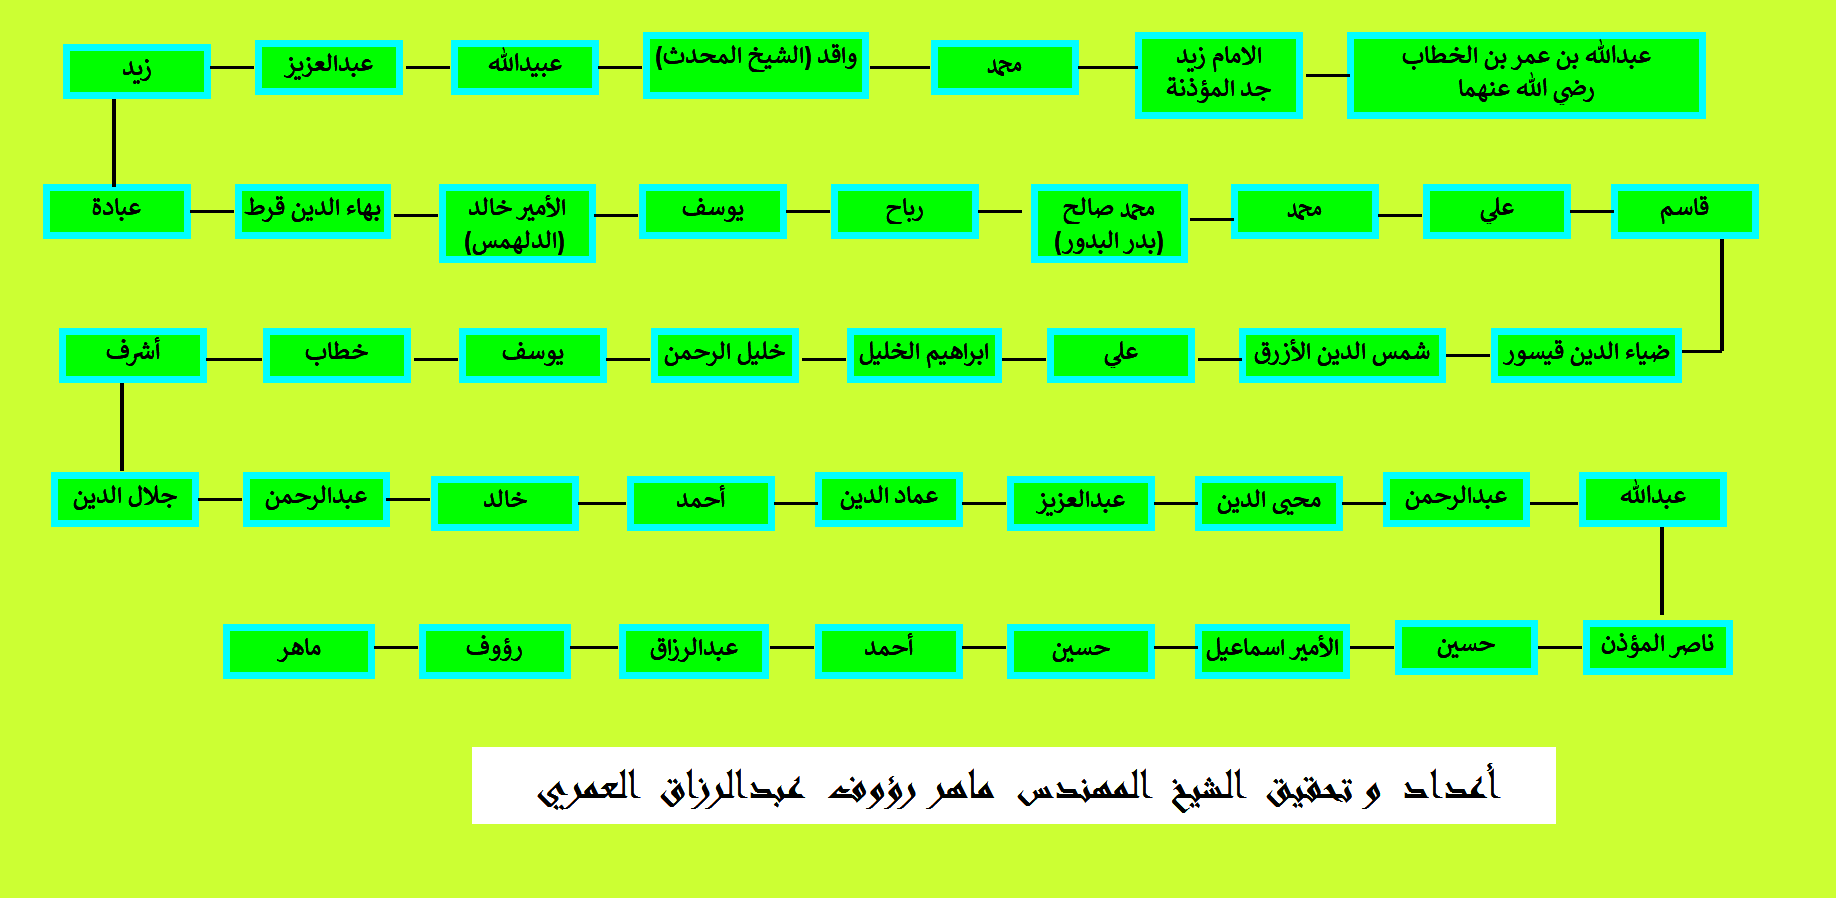
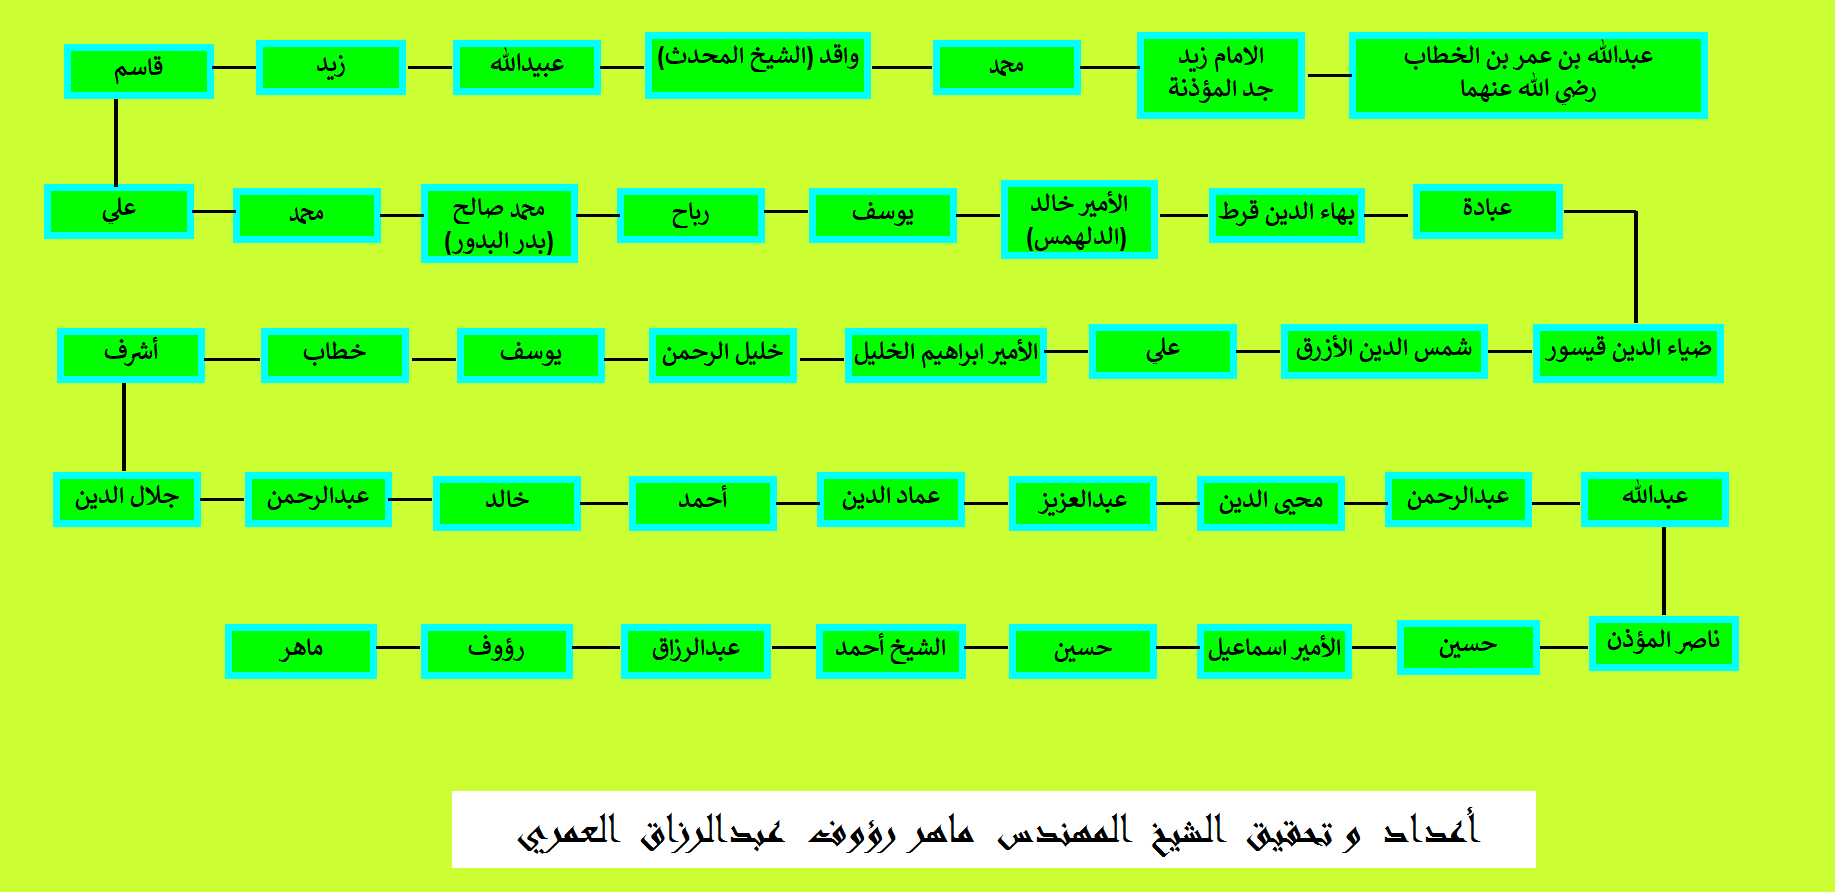
update

diff --git a/Sons-Zaid-Abdullah.html b/Sons-Zaid-Abdullah.html
@@ -1,0 +1,48 @@
+<!DOCTYPE html PUBLIC "-//W3C//DTD XHTML 1.0 Transitional//EN" "http://www.w3.org/TR/xhtml1/DTD/xhtml1-transitional.dtd">
+<html xmlns="http://www.w3.org/1999/xhtml">
+
+<head>
+<meta content="text/html; charset=utf-8" http-equiv="Content-Type" />
+<title>النسب العمري</title>
+<script type="text/javascript">
+<!--
+function FP_swapImg() {//v1.0
+ var doc=document,args=arguments,elm,n; doc.$imgSwaps=new Array(); for(n=2; n<args.length;
+ n+=2) { elm=FP_getObjectByID(args[n]); if(elm) { doc.$imgSwaps[doc.$imgSwaps.length]=elm;
+ elm.$src=elm.src; elm.src=args[n+1]; } }
+}
+
+function FP_preloadImgs() {//v1.0
+ var d=document,a=arguments; if(!d.FP_imgs) d.FP_imgs=new Array();
+ for(var i=0; i<a.length; i++) { d.FP_imgs[i]=new Image; d.FP_imgs[i].src=a[i]; }
+}
+
+function FP_getObjectByID(id,o) {//v1.0
+ var c,el,els,f,m,n; if(!o)o=document; if(o.getElementById) el=o.getElementById(id);
+ else if(o.layers) c=o.layers; else if(o.all) el=o.all[id]; if(el) return el;
+ if(o.id==id || o.name==id) return o; if(o.childNodes) c=o.childNodes; if(c)
+ for(n=0; n<c.length; n++) { el=FP_getObjectByID(id,c[n]); if(el) return el; }
+ f=o.forms; if(f) for(n=0; n<f.length; n++) { els=f[n].elements;
+ for(m=0; m<els.length; m++){ el=FP_getObjectByID(id,els[n]); if(el) return el; } }
+ return null;
+}
+// -->
+</script>
+</head>
+
+<body style="background-color: #CCFF33" onload="FP_preloadImgs(/*url*/'button2235.gif',/*url*/'button2236.gif',/*url*/'button2238.gif',/*url*/'button2239.gif',/*url*/'button2241.gif',/*url*/'button2242.gif')">
+
+<div id="layer1" style="position: absolute; width: 100px; height: 31px; z-index: 1; left: 88px; top: 823px">
+	<a href="Moathena-doc.html">
+	<img id="img1" alt="الوثيقة" height="20" onmousedown="FP_swapImg(1,0,/*id*/'img1',/*url*/'button2236.gif')" onmouseout="FP_swapImg(0,0,/*id*/'img1',/*url*/'button2237.gif')" onmouseover="FP_swapImg(1,0,/*id*/'img1',/*url*/'button2235.gif')" onmouseup="FP_swapImg(0,0,/*id*/'img1',/*url*/'button2235.gif')" src="button2237.gif" style="border: 0" width="100" /><!-- MSComment="ibutton" fp-style="fp-btn: Metal Capsule 6; fp-font-style: Bold; fp-transparent: 1" fp-title="الوثيقة" --></a></div>
+<div id="layer2" style="position: absolute; width: 114px; height: 38px; z-index: 2; left: 32px; top: 16px">
+	<a href="index.html">
+	<img id="img2" alt="الصفحة الرئيسية" height="22" onmousedown="FP_swapImg(1,0,/*id*/'img2',/*url*/'button2239.gif')" onmouseout="FP_swapImg(0,0,/*id*/'img2',/*url*/'button2240.gif')" onmouseover="FP_swapImg(1,0,/*id*/'img2',/*url*/'button2238.gif')" onmouseup="FP_swapImg(0,0,/*id*/'img2',/*url*/'button2238.gif')" src="button2240.gif" style="border: 0" width="112" /><!-- MSComment="ibutton" fp-style="fp-btn: Metal Capsule 3; fp-font-style: Bold; fp-transparent: 1" fp-title="الصفحة الرئيسية" --></a></div>
+<div id="layer3" style="position: absolute; width: 44px; height: 46px; z-index: 3; left: 289px; top: 698px">
+	<a href="http://new.omaritree.com/3741">
+	<img id="img3" alt="" height="40" onmousedown="FP_swapImg(1,0,/*id*/'img3',/*url*/'button2242.gif')" onmouseout="FP_swapImg(0,0,/*id*/'img3',/*url*/'button2243.gif')" onmouseover="FP_swapImg(1,0,/*id*/'img3',/*url*/'button2241.gif')" onmouseup="FP_swapImg(0,0,/*id*/'img3',/*url*/'button2241.gif')" src="button2243.gif" style="border: 0" width="200" /><!-- MSComment="ibutton" fp-style="fp-btn: Simple Circle 3; fp-font-style: Bold; fp-transparent: 1" fp-title="" --></a></div>
+<img alt="" height="892" src="Sons-Zaid-Abdullah.PNG" width="1835" />
+
+</body>
+
+</html>

diff --git a/Moathena-doc.html b/Moathena-doc.html
@@ -6,15 +6,15 @@
 <title>النسب العمري</title>
 <script type="text/javascript">
 <!--
-function FP_preloadImgs() {//v1.0
- var d=document,a=arguments; if(!d.FP_imgs) d.FP_imgs=new Array();
- for(var i=0; i<a.length; i++) { d.FP_imgs[i]=new Image; d.FP_imgs[i].src=a[i]; }
-}
-
 function FP_swapImg() {//v1.0
  var doc=document,args=arguments,elm,n; doc.$imgSwaps=new Array(); for(n=2; n<args.length;
  n+=2) { elm=FP_getObjectByID(args[n]); if(elm) { doc.$imgSwaps[doc.$imgSwaps.length]=elm;
  elm.$src=elm.src; elm.src=args[n+1]; } }
+}
+
+function FP_preloadImgs() {//v1.0
+ var d=document,a=arguments; if(!d.FP_imgs) d.FP_imgs=new Array();
+ for(var i=0; i<a.length; i++) { d.FP_imgs[i]=new Image; d.FP_imgs[i].src=a[i]; }
 }
 
 function FP_getObjectByID(id,o) {//v1.0
@@ -30,12 +30,12 @@ function FP_getObjectByID(id,o) {//v1.0
 </script>
 </head>
 
-<body style="background-color: #FFCC66" onload="FP_preloadImgs(/*url*/'button2205.gif',/*url*/'button2206.gif')">
+<body style="background-color: #FFCC66" onload="FP_preloadImgs(/*url*/'buttonE68.gif',/*url*/'buttonF56.gif')">
 
-<div id="layer1" style="position: absolute; width: 112px; height: 47px; z-index: 1; left: 40px; top: 28px">
+<div id="layer1" style="position: absolute; width: 116px; height: 33px; z-index: 1; left: 36px; top: 31px">
 	<a href="index.html">
-	<img id="img1" alt="الصفحة الرئيسية" height="22" onmousedown="FP_swapImg(1,0,/*id*/'img1',/*url*/'button2206.gif')" onmouseout="FP_swapImg(0,0,/*id*/'img1',/*url*/'button2207.gif')" onmouseover="FP_swapImg(1,0,/*id*/'img1',/*url*/'button2205.gif')" onmouseup="FP_swapImg(0,0,/*id*/'img1',/*url*/'button2205.gif')" src="button2207.gif" style="border: 0" width="111" /><!-- MSComment="ibutton" fp-style="fp-btn: Metal Capsule 3; fp-font-style: Bold; fp-transparent: 1" fp-title="الصفحة الرئيسية" --></a></div>
-<img alt="" height="909" src="Moathena-doc.png" width="951" />
+	<img id="img1" alt="الصفحة الرئيسية" height="23" onmousedown="FP_swapImg(1,0,/*id*/'img1',/*url*/'buttonF56.gif')" onmouseout="FP_swapImg(0,0,/*id*/'img1',/*url*/'buttonD84.gif')" onmouseover="FP_swapImg(1,0,/*id*/'img1',/*url*/'buttonE68.gif')" onmouseup="FP_swapImg(0,0,/*id*/'img1',/*url*/'buttonE68.gif')" src="buttonD84.gif" style="border: 0" width="113" /><!-- MSComment="ibutton" fp-style="fp-btn: Metal Capsule 3; fp-font-style: Bold; fp-transparent: 1" fp-title="الصفحة الرئيسية" --></a></div>
+<img alt="" height="895" src="Moathena-doc.html.PNG" width="1826" />
 
 </body>
 

diff --git a/index.html b/index.html
@@ -51,7 +51,7 @@ function FP_getObjectByID(id,o) {//v1.0
 <div id="layer1" style="position: absolute; width: 401px; height: 81px; z-index: 1; left: 467px; top: 34px">
 	<div id="layer43" style="position: absolute; width: 154px; height: 35px; z-index: 43; left: -34px; top: 320px">
 		<div id="layer44" style="position: absolute; width: 250px; z-index: 44; left: 376px; top: 42px; height: 61px">
-			<a href="Sona-Zaid-Abdullah.html">
+			<a href="Sons-Zaid-Abdullah.html">
 			<img id="img55" alt="عمرية العراق (المؤذنة) أحفاد الامام زيد" height="50" onmousedown="FP_swapImg(1,0,/*id*/'img55',/*url*/'button2169.gif')" onmouseout="FP_swapImg(0,0,/*id*/'img55',/*url*/'button2170.gif')" onmouseover="FP_swapImg(1,0,/*id*/'img55',/*url*/'button2168.gif')" onmouseup="FP_swapImg(0,0,/*id*/'img55',/*url*/'button2168.gif')" src="button2170.gif" style="border: 0" width="250" /><!-- MSComment="ibutton" fp-style="fp-btn: Metal Capsule 2; fp-font-style: Bold; fp-transparent: 1; fp-proportional: 0" fp-title="عمرية العراق (المؤذنة) أحفاد الامام زيد" --></a></div>
 		<a href="Isa-El-Noman.html">
 		<img id="img54" alt="عمرية المجيدل- سوريا" height="30" onmousedown="FP_swapImg(1,0,/*id*/'img54',/*url*/'buttonD82.gif')" onmouseout="FP_swapImg(0,0,/*id*/'img54',/*url*/'buttonB98.gif')" onmouseover="FP_swapImg(1,0,/*id*/'img54',/*url*/'buttonC116.gif')" onmouseup="FP_swapImg(0,0,/*id*/'img54',/*url*/'buttonC116.gif')" src="buttonB98.gif" style="border: 0" width="150" /><!-- MSComment="ibutton" fp-style="fp-btn: Metal Capsule 3; fp-font-style: Bold; fp-transparent: 1" fp-title="عمرية المجيدل- سوريا" --></a></div>
